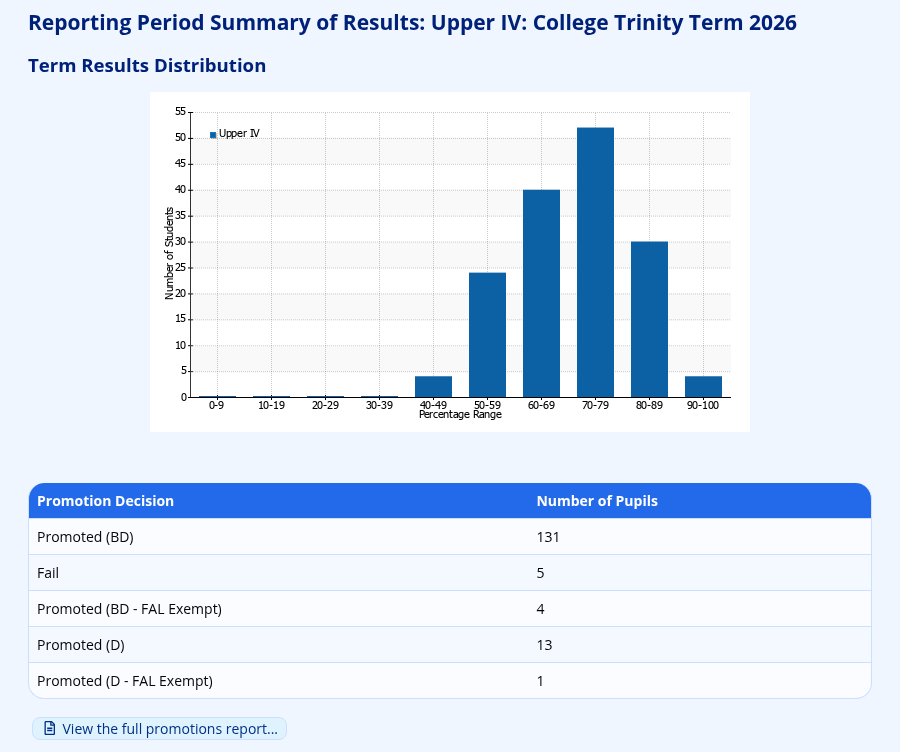
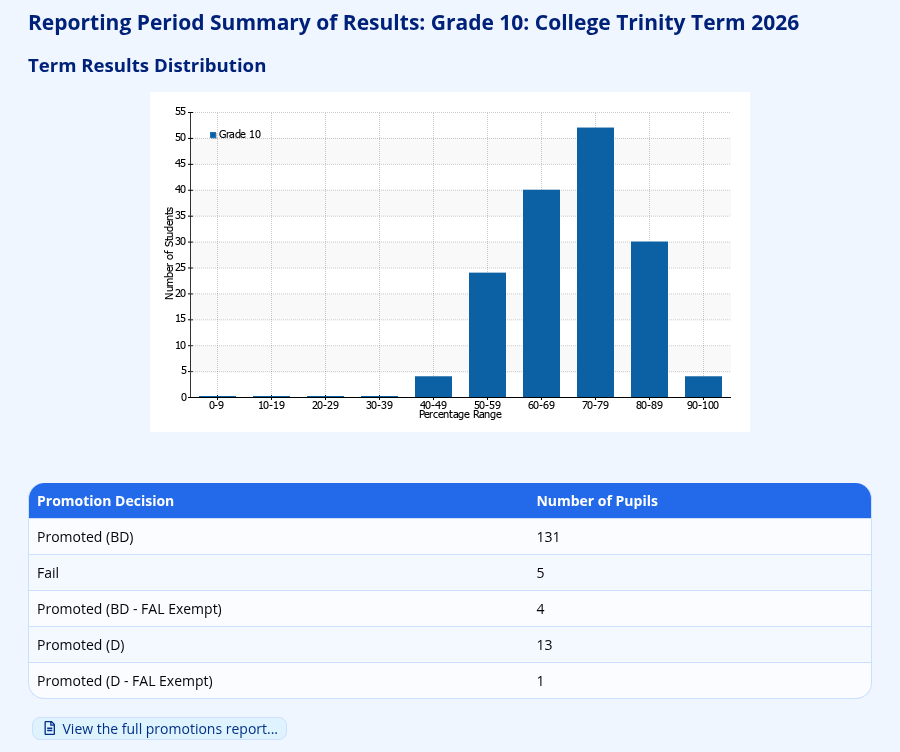
Recapture the results summary with the screenshot site's default grade names
The screenshot site's grades now carry ADAM's default "Grade n" names
instead of the school's own (Upper IV and so on). The two images of the
results summary are recaptured with the same grade and periods, and the
example heading in the text now names Grade 10.

Changed region(s): [[0.4667, 0.0, 0.9022, 0.0612], [0.2489, 0.1529, 0.28, 0.1835]]

diff --git a/docs/results-analysis.md b/docs/results-analysis.md
@@ -74,7 +74,7 @@ Click **Next**. The summary opens in a new tab or window, so the form stays open
 
 ### Reading the summary
 
-The heading names the grade and the reporting period, for example “Reporting Period Summary of Results: Upper IV: College Trinity Term 2026”. The summary counts the pupils who were in the grade on the last day of the reporting period and who have an aggregate for that period. A pupil without an aggregate is left out of every part of the summary. The summary uses the results as they are now, whether or not the reports have been published.
+The heading names the grade and the reporting period, for example “Reporting Period Summary of Results: Grade 10: College Trinity Term 2026”. The summary counts the pupils who were in the grade on the last day of the reporting period and who have an aggregate for that period. A pupil without an aggregate is left out of every part of the summary. The summary uses the results as they are now, whether or not the reports have been published.
 
 ![](assets/screenshots/results-analysis/results-analysis-03.png)
 
